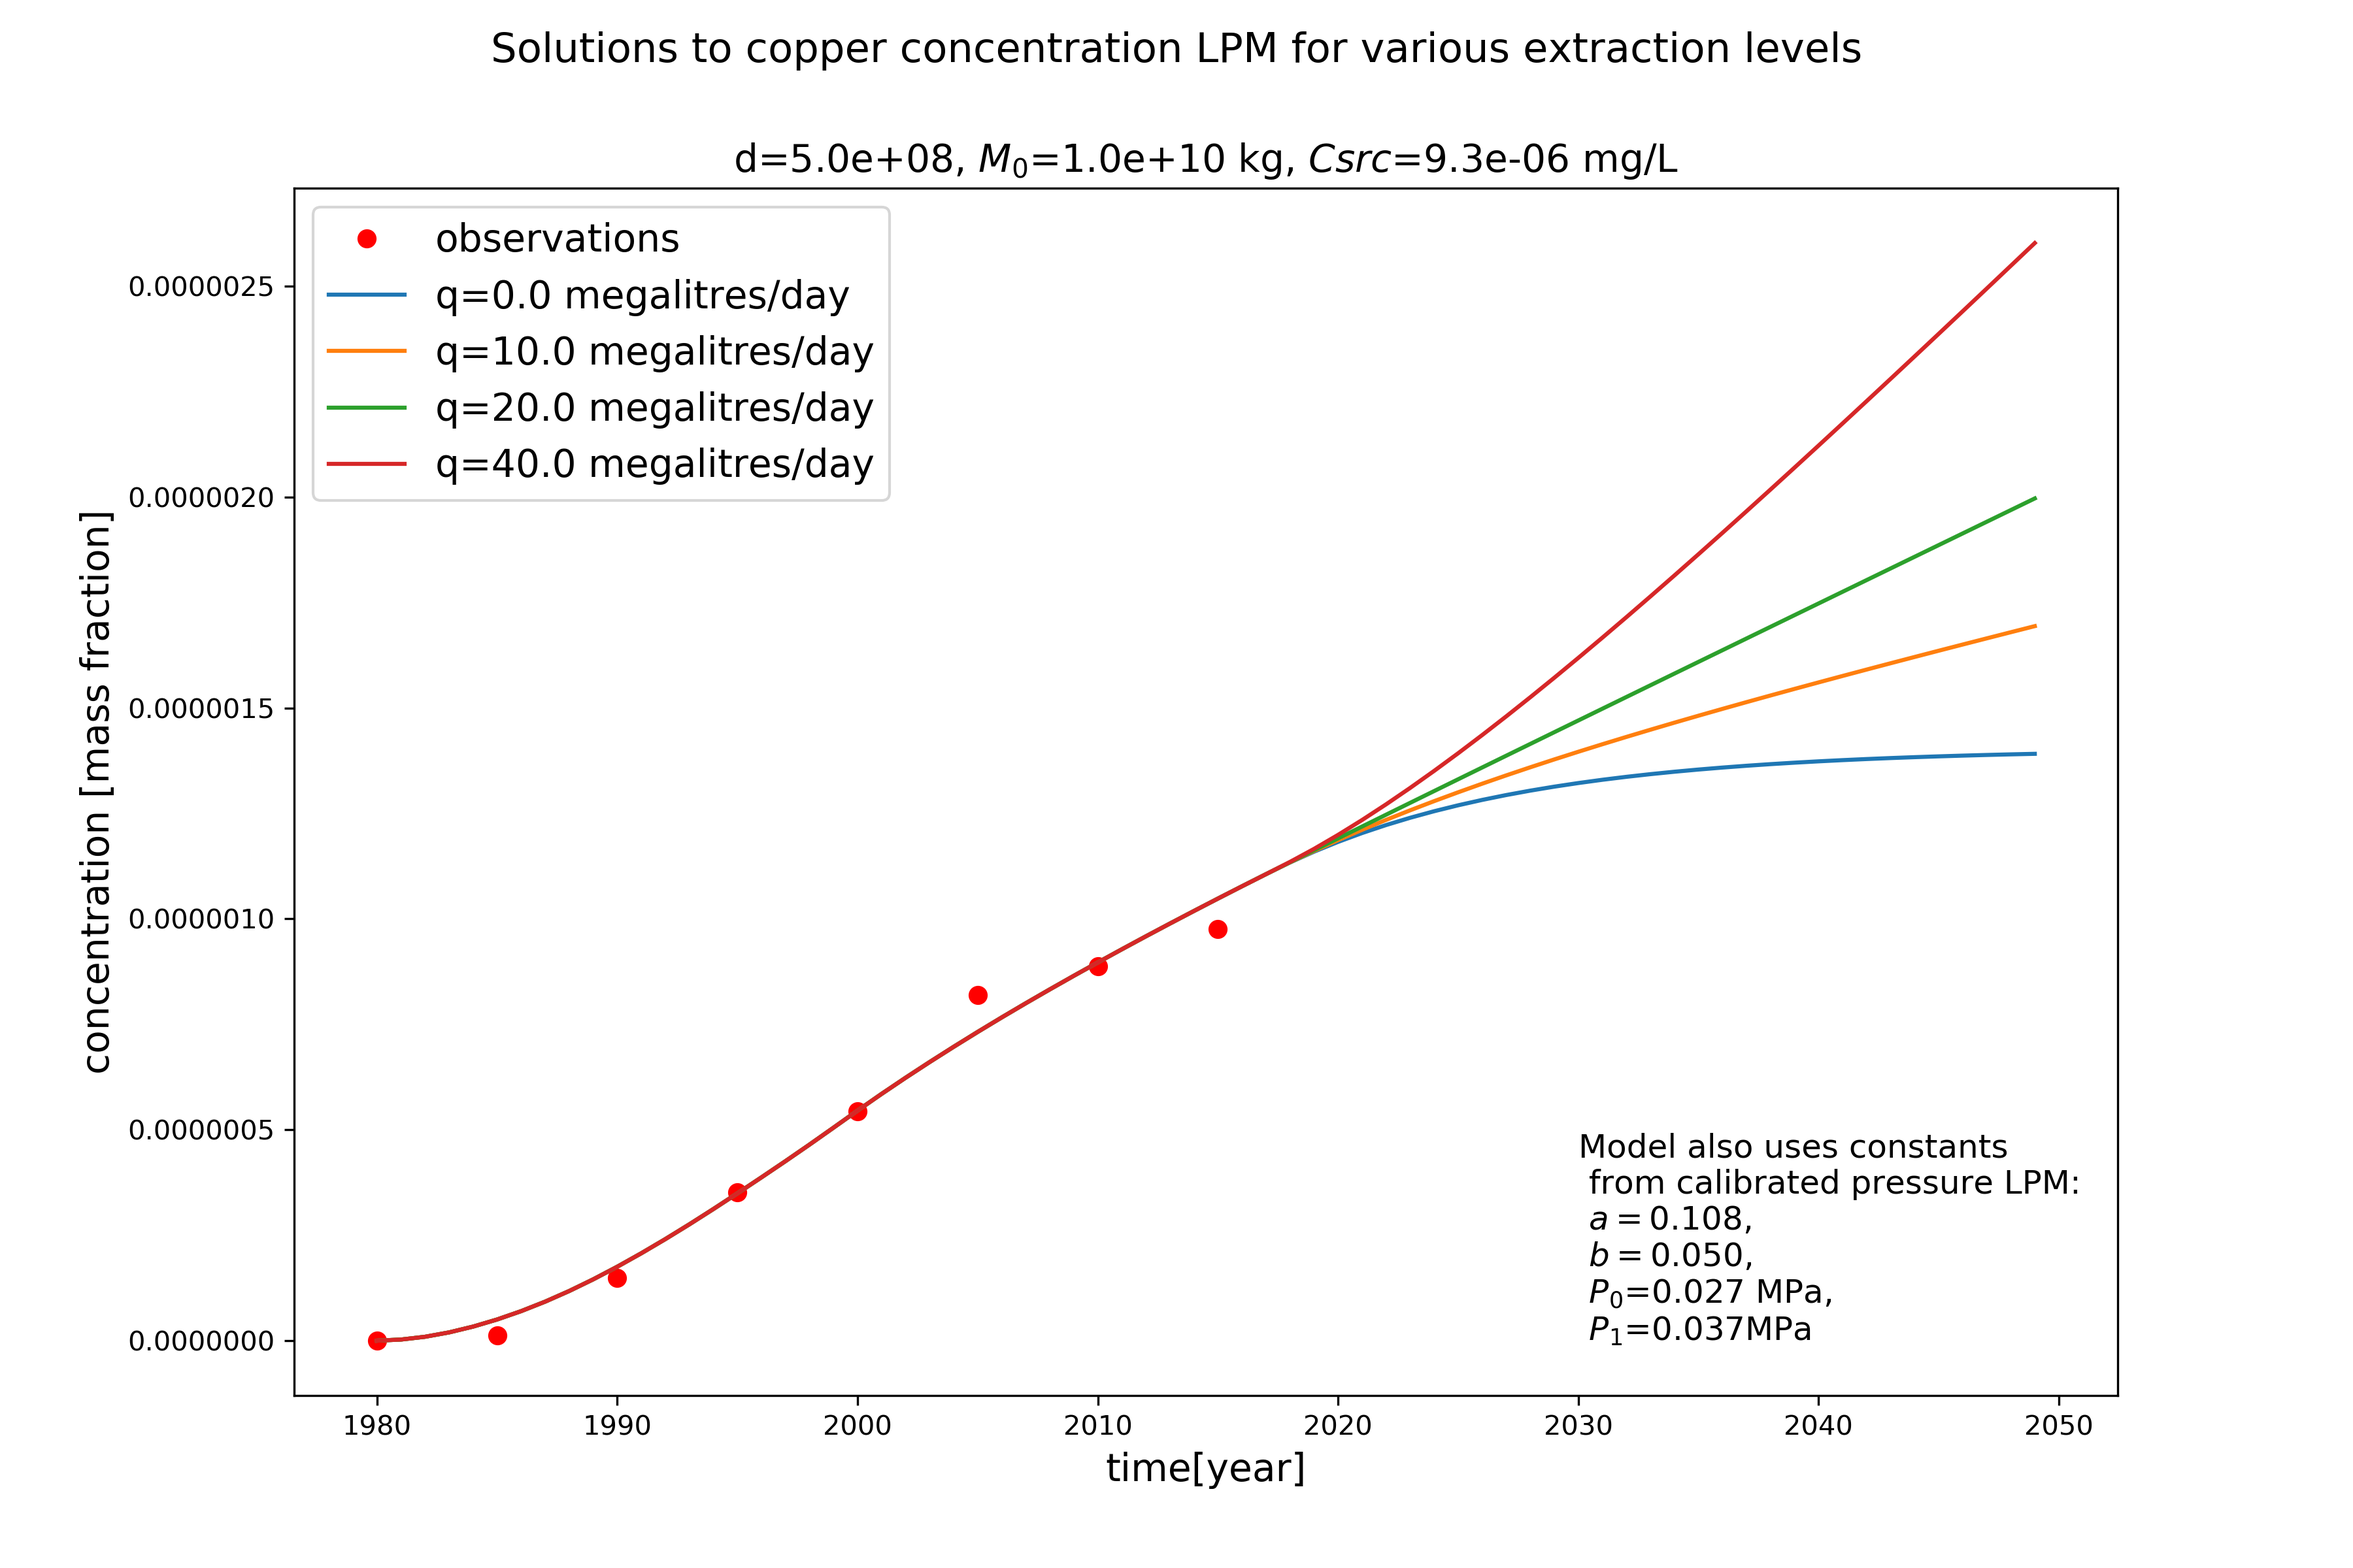
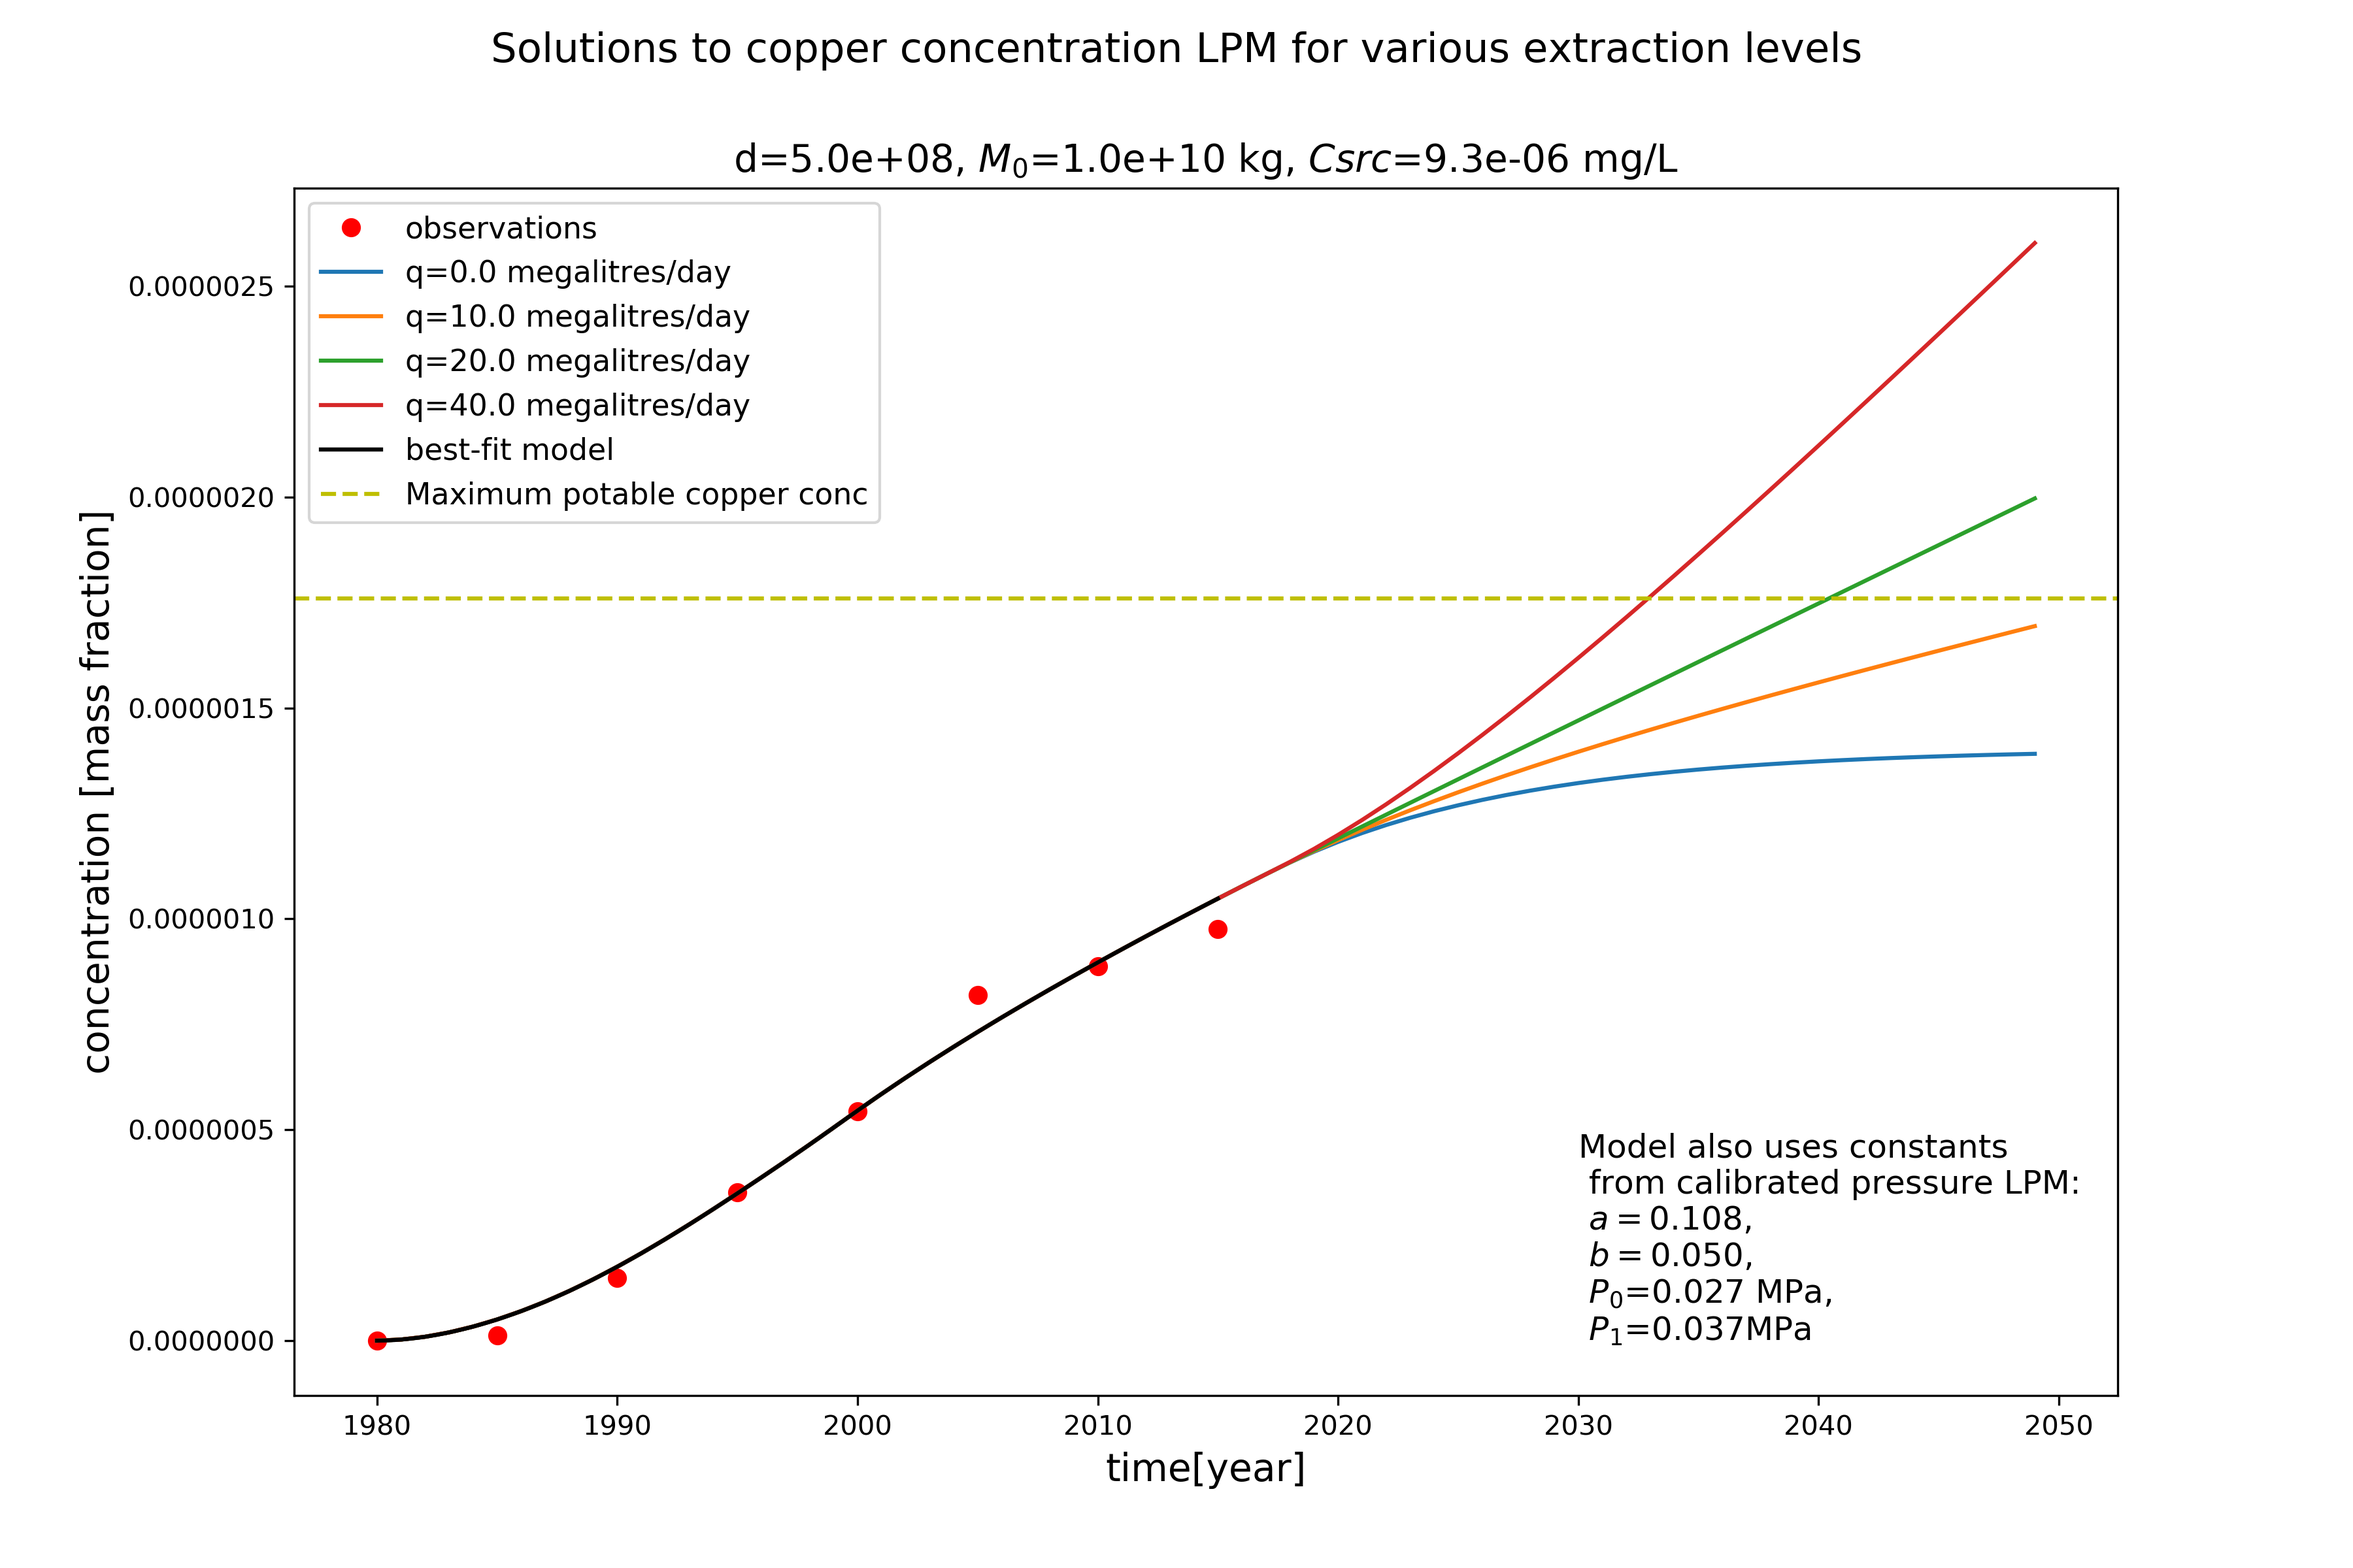
added calibrated/historical model and copper conc limit to predictions

Changed region(s): [[0.1244, 0.125, 0.3733, 0.3438], [0.2178, 0.8125, 0.2489, 0.8438]]

diff --git a/Predictions/solve_calibrate.py b/Predictions/solve_calibrate.py
@@ -101,23 +101,28 @@ def conc_lpm_predict(pm,tp,pressure_pars,levels):
     pars = np.append(pressure_pars,pars[4:])
     
     
-    t=[]
     cm=[]
     for i in range(len(tp)):
         # get and store the best solutions
         cmi = solve_c_lpm(tp[i],*pars, extrapolate=tp[i], level=levels[i])
         cm.append(cmi)
-        t.append(tp[i])
 
-
+    
     f,ax = plt.subplots(1,1,figsize=(12,8))
     ax.plot(tc, c, 'ro', label = 'observations')
 
     for i in range(len(levels)):
         ax.plot(tp[i], cm[i], label='q={:3.1f} megalitres/day'.format(levels[i]))
+    
+    #solve for the historical data as well
+    ch = solve_c_lpm(np.linspace(1980,2015,100), *pars, extrapolate=np.linspace(1980,2016,100), level=0)
+    ax.plot(np.linspace(1980,2015,100), ch, 'k-', label='best-fit model')
+
+    #plot maximum safety limit 1.76mg/L (no safety factor)
+    ax.axhline(1.76e-6, color='y', linestyle='--', label='Maximum potable copper conc')
 
     ax.set_ylabel("concentration [mass fraction]",size=14); ax.set_xlabel("time[year]",size=14)
-    ax.legend(prop={'size':14})
+    ax.legend(prop={'size':11})
     ax.set_title('d={:2.1e}, $M_0$={:2.1e} kg, $Csrc$={:2.1e} mg/L'.format(*pars[4:]),size=14)
     ax.text(2030,0.0000000,'Model also uses constants\n from calibrated pressure LPM:\n $a=${:3.3f},\n $b=${:3.3f},\n $P_0$={:3.3f} MPa,\n $P_1$={:3.3f}MPa'.format(*pars[0:4]),size=12)
     f.suptitle("Solutions to copper concentration LPM for various extraction levels",size=15)

diff --git a/Predictions/lpm_solve.py b/Predictions/lpm_solve.py
@@ -288,4 +288,4 @@ def solve_c_lpm(t,a,b,p0,p1,d,m0,csrc, testing = None, extrapolate=None, level=N
         cm.append(cm[-1] + 0.5*(t1-t0)*(dcdt2+dcdt1))
     
     #interp onto requested times
-    return np.interp(t, tc, cm)                   
+    return np.interp(t, tc, cm)                 
